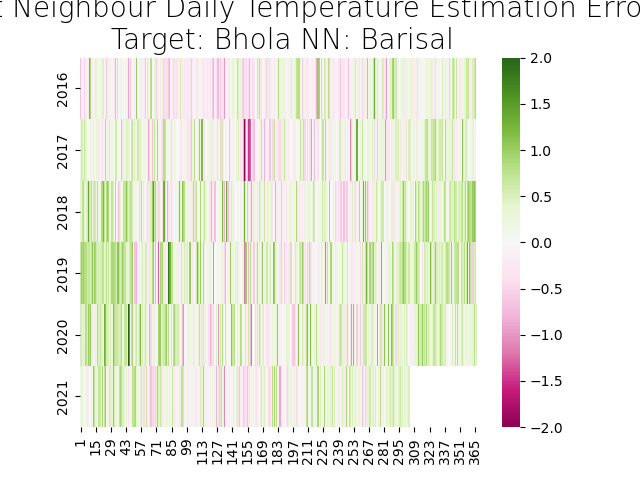
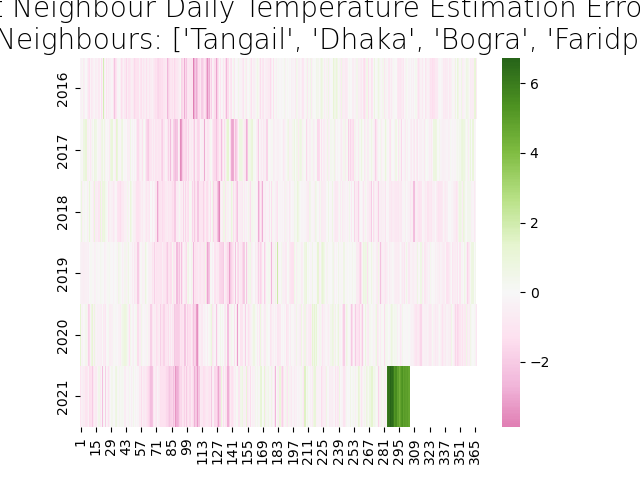
IDW done

diff --git a/calculate_IDW_interpolation.py b/calculate_IDW_interpolation.py
@@ -7,6 +7,22 @@ import math
 import sklearn.neighbors as skn
 
 
+def get_distance(lat1, lon1, lat2, lon2):
+    lon1 = math.radians(lon1)
+    lon2 = math.radians(lon2)
+    lat1 = math.radians(lat1)
+    lat2 = math.radians(lat2)
+
+    # Haversine formula
+    dlon = lon2 - lon1
+    dlat = lat2 - lat1
+    a = math.sin(dlat / 2) ** 2 + math.cos(lat1) * math.cos(lat2) * math.sin(dlon / 2) ** 2
+
+    c = 2 * math.asin(math.sqrt(a))
+    r = 6371
+    return c * r
+
+
 def get_rmse_error(error_list):
     sq_error = 0.0
     if len(error_list) == 0:
@@ -32,7 +48,7 @@ def find_nearest_station(st_target, st_all):
             t_lon = float(st_target_entry.iloc[0, 3])
             r_lat = float(st_target_removed.iloc[i, 2])
             r_lon = float(st_target_removed.iloc[i, 3])
-            dist = (t_lat - r_lat)**2 + (t_lon - r_lon)**2
+            dist = get_distance(t_lat, t_lon, r_lat, r_lon)
             if dist < nearest_val:
                 nearest_val = dist
                 nearest = st_target_removed.iloc[i, 1]
@@ -40,40 +56,48 @@ def find_nearest_station(st_target, st_all):
     return st_nearest
 
 
-def get_error_df(st_target_location, st_nearest, temp_info_df):
+def get_IDW_val(row, column, n_weights, nearest_stations_df_list):
+    value = 0
+    for i in range(len(nearest_stations_df_list)):
+        n_val = nearest_stations_df_list[i].iloc[row, column]
+        if pd.isnull(n_val) or n_val == "****":
+            return None
+        value += n_weights[i] * float(Decimal(n_val))
+    return value
+
+
+def get_error_df(target_station, nearest_stations, n_weights, var_info_df):
     # start calculating errors
     error_flat_t = []
     error_all_year_t = []
     error_year_t = []
     error_month_t = []
     # Considering only one target
-    for i, t in enumerate(st_target_location):
-        st_t_df = temp_info_df.loc[temp_info_df['Station'] == t]
-        st_nearest_t = st_nearest[i]
-        st_nearest_t_df = temp_info_df.loc[temp_info_df['Station'] == st_nearest_t]
+    target_station_df = var_info_df.loc[temp_info_df['Station'] == target_station]
+    nearest_stations_df_list = []
+    for i, x in enumerate(nearest_stations):
+        nearest_stations_df_list.append(temp_info_df.loc[temp_info_df['Station'] == nearest_stations[i]])
+    min_row_num = target_station_df.shape[0]
+    for i in range(len(nearest_stations_df_list)):
+        if min_row_num < nearest_stations_df_list[i].shape[0]:
+            min_row_num = nearest_stations_df_list[i].shape[0]
 
-        for r in range(min(st_t_df.shape[0], st_nearest_t_df.shape[0])):
-            if r > 0 and r % 12 == 0:
-                error_all_year_t.append(error_year_t)
-                error_year_t = []
-            for c in range(3, 34):
-                t_val = st_t_df.iloc[r, c]
-                n_val = st_nearest_t_df.iloc[r, c]
-                is_not_null = not (pd.isnull(t_val) or pd.isnull(n_val))
-                is_not_star = True
-                if t_val == "****" or n_val == "****":
-                    is_not_star = False
-                if is_not_star and is_not_null:
-                    error = float(Decimal(t_val) - Decimal(n_val))
-                    # print(f"temp in {st_target_location[i]} is {t_val} and temp in {st_nearest[i]} is {n_val}")
-                    # print(f"temp Error is {error}")
-                    error_month_t.append(error)
-                    error_flat_t.append(error)
-            error_year_t.append(error_month_t)
-            error_month_t = []
-        error_all_year_t.append(error_year_t)
-        error_year_t = []
-
+    for r in range(min_row_num):
+        if r > 0 and r % 12 == 0:
+            error_all_year_t.append(error_year_t)
+            error_year_t = []
+        for c in range(3, 34):
+            t_val = target_station_df.iloc[r, c]
+            if not pd.isnull(t_val):
+                if t_val != "****":
+                    n_val = get_IDW_val(r, c, n_weights, nearest_stations_df_list)
+                    if n_val is not None:
+                        error = float(Decimal(t_val) - Decimal(n_val))
+                        error_month_t.append(error)
+                        error_flat_t.append(error)
+        error_year_t.append(error_month_t)
+        error_month_t = []
+    error_all_year_t.append(error_year_t)
     return error_flat_t, error_all_year_t
 
 
@@ -111,7 +135,7 @@ def get_year_month_error(month_colnames, year_indexes, error_all_year_t ):
 
 def get_target_data(target, weather_stations):
     for i, x in enumerate(weather_stations["Location"]):
-        if target[0] == x:
+        if target == x:
             return weather_stations.iloc[i].values.flatten().tolist()
 
 
@@ -122,7 +146,7 @@ def calculate_dist_from_target(target_data, wst_df):
         t_lon = target_data[3]
         n_lat = wst_df.iloc[j, 2]
         n_lon = wst_df.iloc[j, 3]
-        distance = math.sqrt(((t_lat - n_lat) ** 2) + ((t_lon - n_lon) ** 2))
+        distance = get_distance(t_lat, t_lon, n_lat, n_lon)
         dist_row = [target_data[1], wst_df.iloc[j, 1], distance]
         dist.append(dist_row)
     return dist
@@ -138,12 +162,33 @@ def get_k_neighbours(dist_from_target_to_all, neighbours_num):
 
 
 def get_k_neighbours_from_target(target, weather_stations, neighbour_num):
-    k_neighbours_target = []
-    target_data = [get_target_data(target, weather_stations)]
-    dist_all_st_from_target = calculate_dist_from_target(target_data[0], weather_stations)
+    target_data = get_target_data(target[0], weather_stations)
+    dist_all_st_from_target = calculate_dist_from_target(target_data, weather_stations)
     k_neighbours = get_k_neighbours(dist_all_st_from_target, neighbour_num)
-    k_neighbours_target.append(k_neighbours)
-    return k_neighbours_target[0]
+    return k_neighbours
+
+
+def get_weight_vector(target, neighbour_stations, weather_stations):
+    dist_vec = [0]*len(neighbour_stations)
+    weight_vec = [0]*len(neighbour_stations)
+    target_data = get_target_data(target[0], weather_stations)
+    sum = 0
+    for i, x in enumerate(neighbour_stations):
+        n_data = get_target_data(x, weather_stations)
+        t_lat = target_data[2]
+        t_lon = target_data[3]
+        n_lat = n_data[2]
+        n_lon = n_data[3]
+        distance = get_distance(t_lat, t_lon, n_lat, n_lon)
+        dist_vec[i] = distance
+        sum += distance
+    weight_sum = 0
+    for i in range(len(dist_vec)):
+        weight_vec[i] = sum/dist_vec[i]
+        weight_sum += weight_vec[i]
+    for i in range(len(weight_vec)):
+        weight_vec[i] = weight_vec[i]/weight_sum
+    return weight_vec
 
 
 # Load datasets and set target
@@ -152,7 +197,7 @@ temp_info_file = '/home/joyanta/Documents/HDSS_Documents/Weather Data Interpolat
 bd_weather_stations = pd.read_csv(weather_station_csv)
 temp_info_df = pd.read_csv(temp_info_file, sep='\t')
 
-st_target_location = ['Khulna']
+st_target_location = ['Mymensingh']
 
 neighbors_num = 5
 # Only single station is considered
@@ -160,37 +205,66 @@ neighbors_num = 5
 neighbours = get_k_neighbours_from_target(st_target_location, bd_weather_stations, neighbors_num)
 
 target_temp_df = temp_info_df.loc[temp_info_df['Station'] == st_target_location[0]]
-neighbours_temp_df = temp_info_df.loc[temp_info_df['Station'].isin(neighbours)]
 
-print(target_temp_df.head(5))
-print(neighbours_temp_df["Station"])
+neighbour_weights = get_weight_vector(st_target_location, neighbours, bd_weather_stations)
 
-# # Initialize KNN regressor
-# knn_regressor = skn.KNeighborsRegressor(n_neighbors=neighbors, weights="distance")
-#
-# Fit to data
-# knn_regressor.fit(coords_rain_train, value_rain_train)
-# neigh_dist, neigh_index = knn_regressor.kneighbors(X=bd_weather_stations.iloc[: , 2:], n_neighbors=neighbors, return_distance=True)
-# print(neigh_dist)
-# print(neigh_index)
-# st_nearest = find_nearest_station(st_target_location, bd_weather_stations)
-#
-# #get error df
-# error_flat_t, error_all_year_t = get_error_df(st_target_location, st_nearest, temp_info_df)
-#
-# # Whole dataset RMSE result
-# rmse_error = get_rmse_error(error_flat_t)
-# print(f"RMSE error: {rmse_error} for location {st_target_location[0]} interpolated from {st_nearest[0]}")
-#
-# # calculate month wise and day wise error
-# indexes = np.array(temp_info_df["Year"].drop_duplicates())
-# day_colnames = np.arange(1, 367)
-# month_colnames = ['jan', 'feb', 'mar', 'apr', 'may', 'jun', 'jul', 'aug', 'sep', 'oct', 'nov', 'dec']
-#
-# month_error_df, m_max, m_min = get_year_month_error(month_colnames, indexes, error_all_year_t)
-# day_error_df, d_max, d_min = get_year_day_error(day_colnames, indexes, error_all_year_t)
+error_flat_t, error_all_year_t = get_error_df(st_target_location[0], neighbours, neighbour_weights, temp_info_df)
 
-# ax = sns.heatmap(month_error_df, linewidth=0.5)
-# # ax = sns.heatmap(normalized_day_error_df)
-# plt.show()
+# Whole dataset RMSE result
+rmse_error = get_rmse_error(error_flat_t)
+print(f"RMSE error: {rmse_error} for location {st_target_location[0]} interpolated from {neighbours} ")
 
+# calculate month wise and day wise error
+indexes = np.array(temp_info_df["Year"].drop_duplicates())
+day_colnames = np.arange(1, 367)
+month_colnames = ['jan', 'feb', 'mar', 'apr', 'may', 'jun', 'jul', 'aug', 'sep', 'oct', 'nov', 'dec']
+
+day_error_df = pd.DataFrame(np.nan, index=indexes, columns=day_colnames)
+month_error_df = pd.DataFrame(np.nan, index=indexes, columns=month_colnames)
+
+d_max = -999999
+d_min = 9999999
+m_max = -999999
+m_min = 9999999
+
+for i, y in enumerate(error_all_year_t):
+    day_c = 0
+    for j, m in enumerate(y):
+        month_error_df.iloc[i, j] = get_rmse_error(m)
+        if month_error_df.iloc[i, j] > m_max:
+            m_max = month_error_df.iloc[i, j]
+        if month_error_df.iloc[i, j] < m_min:
+            m_min = month_error_df.iloc[i, j]
+
+        for d in m:
+            day_error_df.iloc[i, day_c] = d
+            day_c += 1
+            if d > d_max:
+                d_max = d
+            if d < d_min:
+                d_min = d
+
+# print(f"Monthly max {m_max} and min {m_min}")
+# print(f"Daily max {d_max} or {max(error_flat_t)} and min {d_min} or {min(error_flat_t)}")
+
+normalized_day_error_df = day_error_df.copy(deep=True)
+normalized_month_error_df = month_error_df.copy(deep=True)
+
+d_spread = d_max - d_min
+m_spread = m_max - m_min
+
+print(f"Day: Max {d_max} Min {d_min} and spread {d_spread}")
+print(f"Month: Max {m_max} Min {m_min} and spread {m_spread}")
+
+# ###### Were working here ############
+# for i in range(len(normalized_month_error_df)):
+#     for j in range(len(normalized_month_error_df.iloc[0])):
+#         normalized_month_error_df.iloc[i, j] = (normalized_month_error_df.iloc[i, j] - m_min)/m_spread
+
+# print(normalized_month_error_df.head())
+ax = sns.heatmap(normalized_day_error_df, cmap="PiYG", center=0)
+# ax = sns.heatmap(normalized_day_error_df, linewidth=0.5)
+ax.set_title(f'Nearest Neighbour Daily Temperature Estimation Error \n Target: {st_target_location[0]} Neighbours: {neighbours}', fontdict={'fontsize': '20', 'fontweight' : '3'})
+plt.savefig("daily_error_Bhola_Barishal")
+
+plt.show()

diff --git a/calculate_nearest_neighbour_interpolation.py b/calculate_nearest_neighbour_interpolation.py
@@ -43,7 +43,7 @@ weather_station_csv = "/home/joyanta/Documents/HDSS_Documents/Weather Data Inter
 temp_info_file = '/home/joyanta/Documents/HDSS_Documents/Weather Data Interpolation/GeoInterpolBD/Bmd Data/temp_info.csv'
 bd_weather_stations = pd.read_csv(weather_station_csv)
 temp_info_df = pd.read_csv(temp_info_file, sep='\t')
-st_target_location = ['Bhola']
+st_target_location = ['Mymensingh']
 st_nearest = find_nearest_station(st_target_location, bd_weather_stations)
 
 # start calculating errors
@@ -132,8 +132,8 @@ print(f"Month: Max {m_max} Min {m_min} and spread {m_spread}")
 # print(normalized_month_error_df.head())
 ax = sns.heatmap(normalized_day_error_df, cmap="PiYG", center=0)
 # ax = sns.heatmap(normalized_day_error_df, linewidth=0.5)
-ax.set_title('Nearest Neighbour Daily Temperature Estimation Error \n Target: Bhola NN: Barisal', fontdict={'fontsize': '20', 'fontweight' : '3'})
-plt.savefig("daily_error_Bhola_Barishal")
+ax.set_title(f'Nearest Neighbour Daily Temperature Estimation Error \n Target: {st_target_location} Neighbours: {st_nearest}', fontdict={'fontsize': '20', 'fontweight' : '3'})
+# plt.savefig("daily_error_Bhola_Barishal")
 
 plt.show()
 
